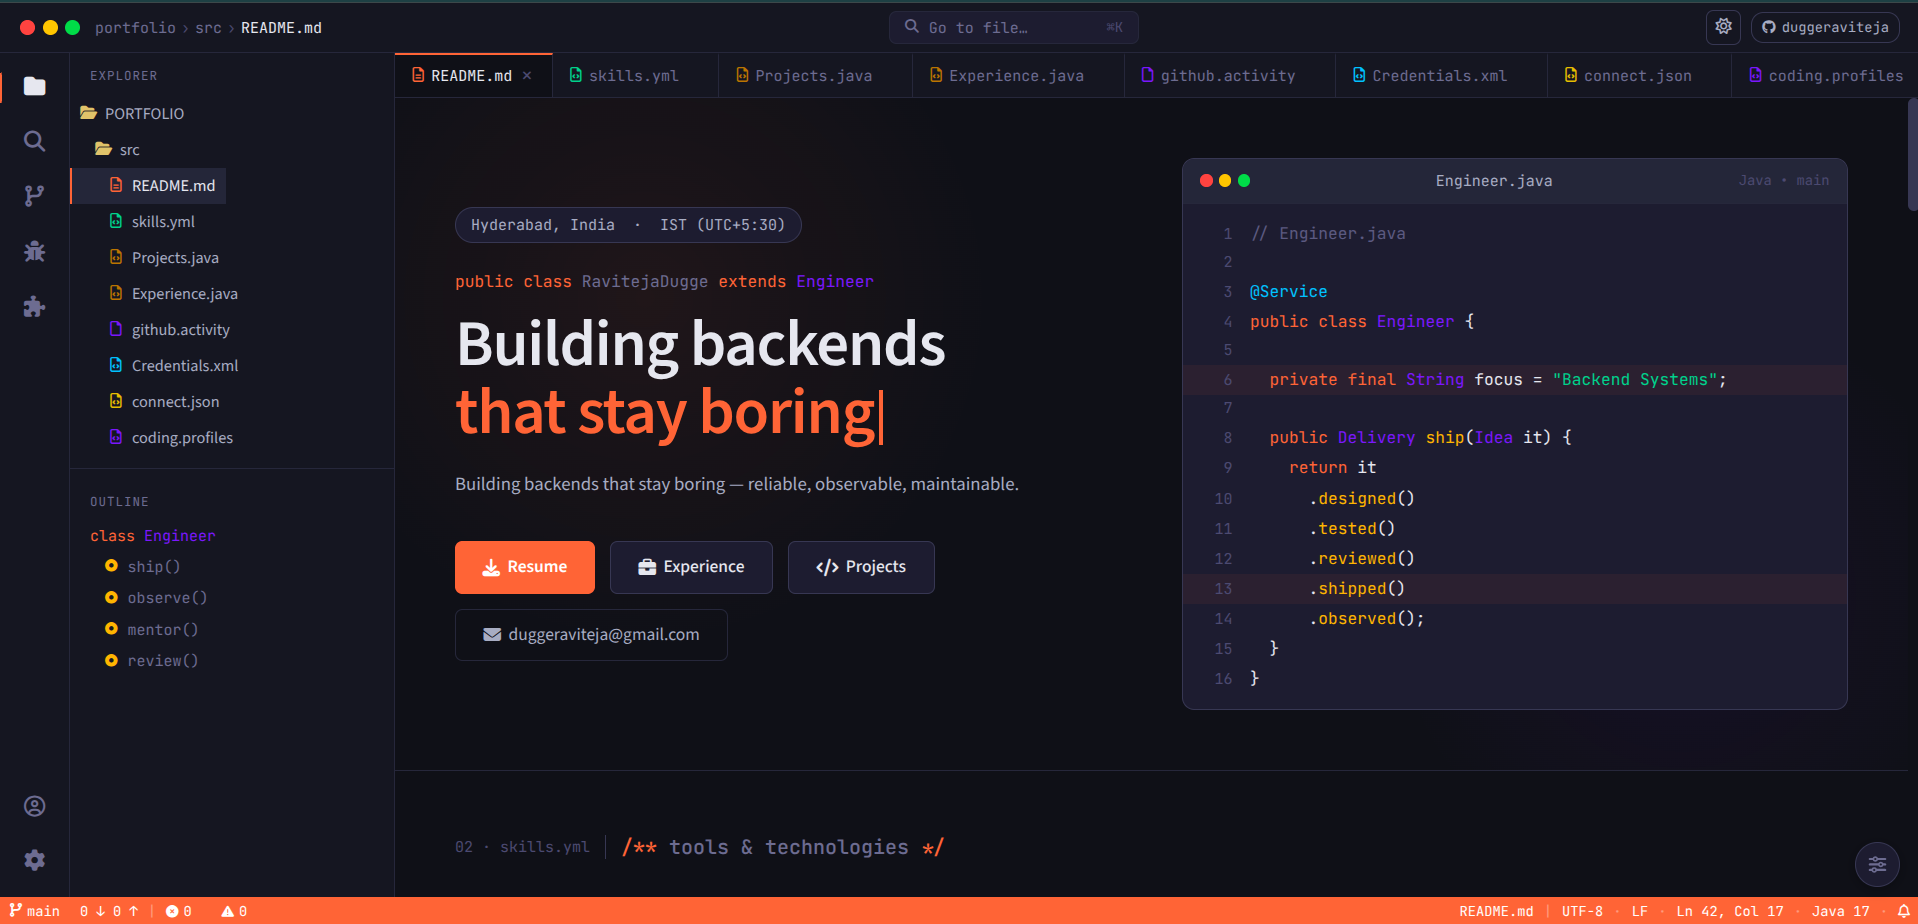
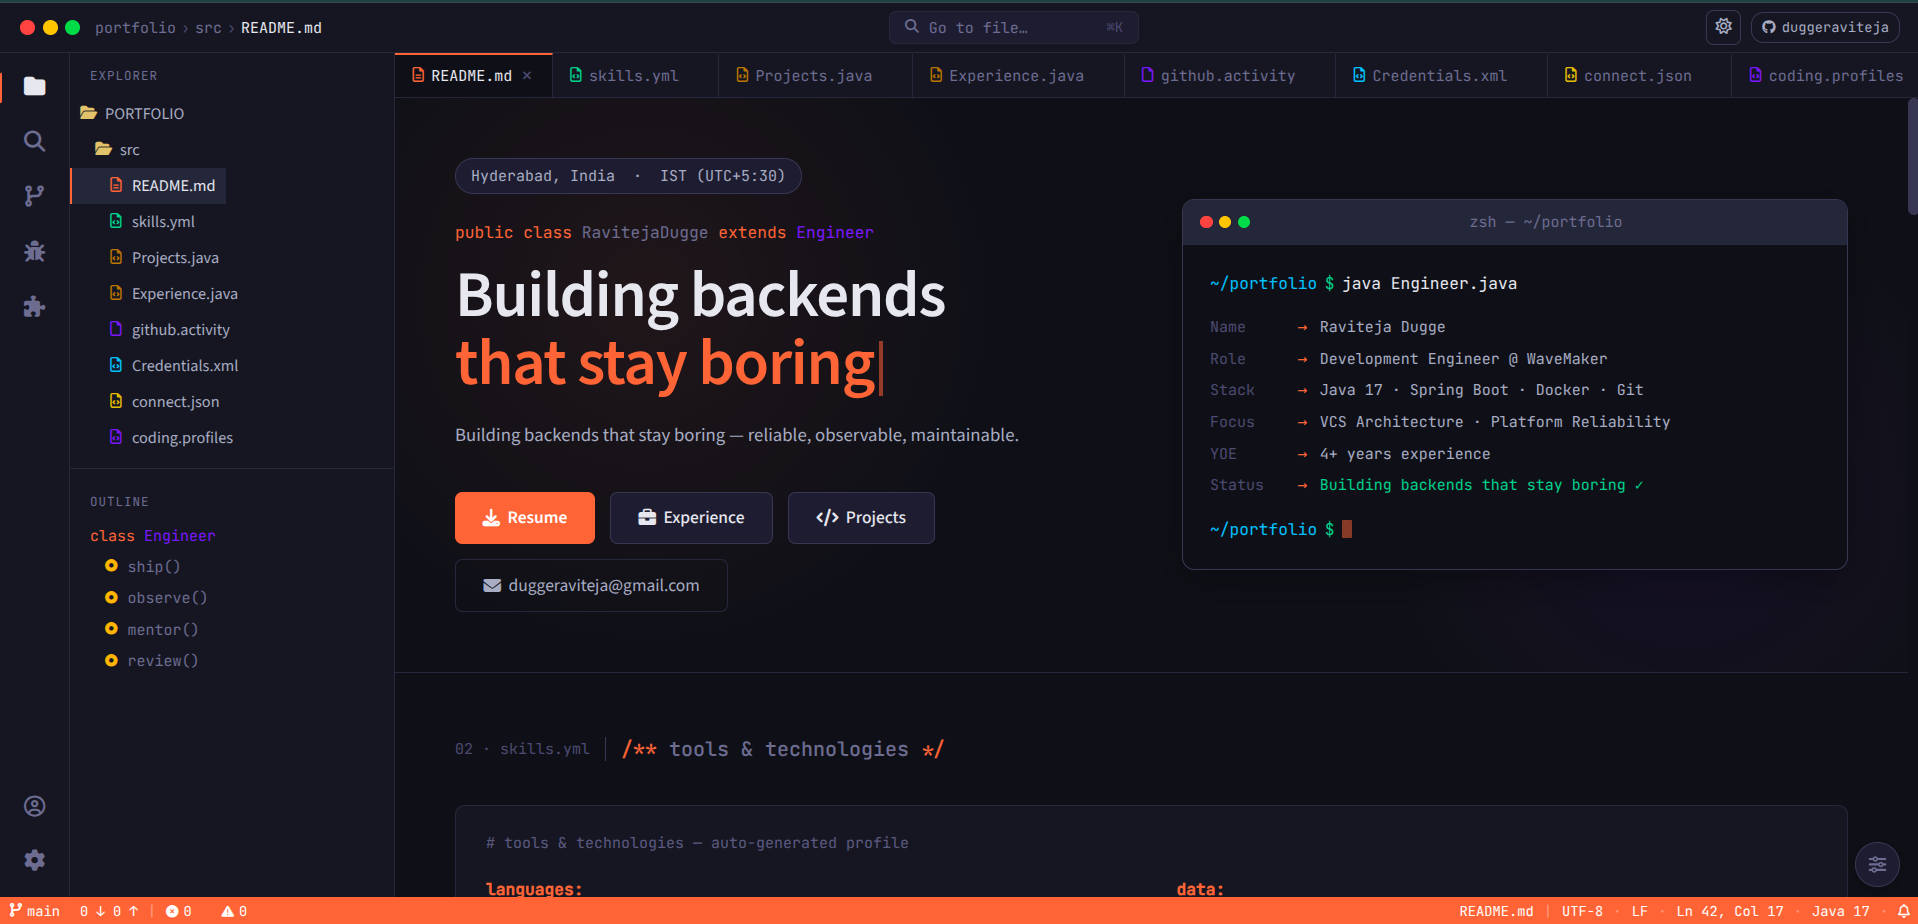
updated README.md

diff --git a/README.md b/README.md
@@ -5,6 +5,8 @@ Every section is a "file" in the editor; the sidebar, tabs, and status bar stay 
 
 **Live:** https://duggeraviteja.netlify.app/
 
+![Portfolio Preview](src/components/images/preview.png)
+
 ---
 
 ## Stack
